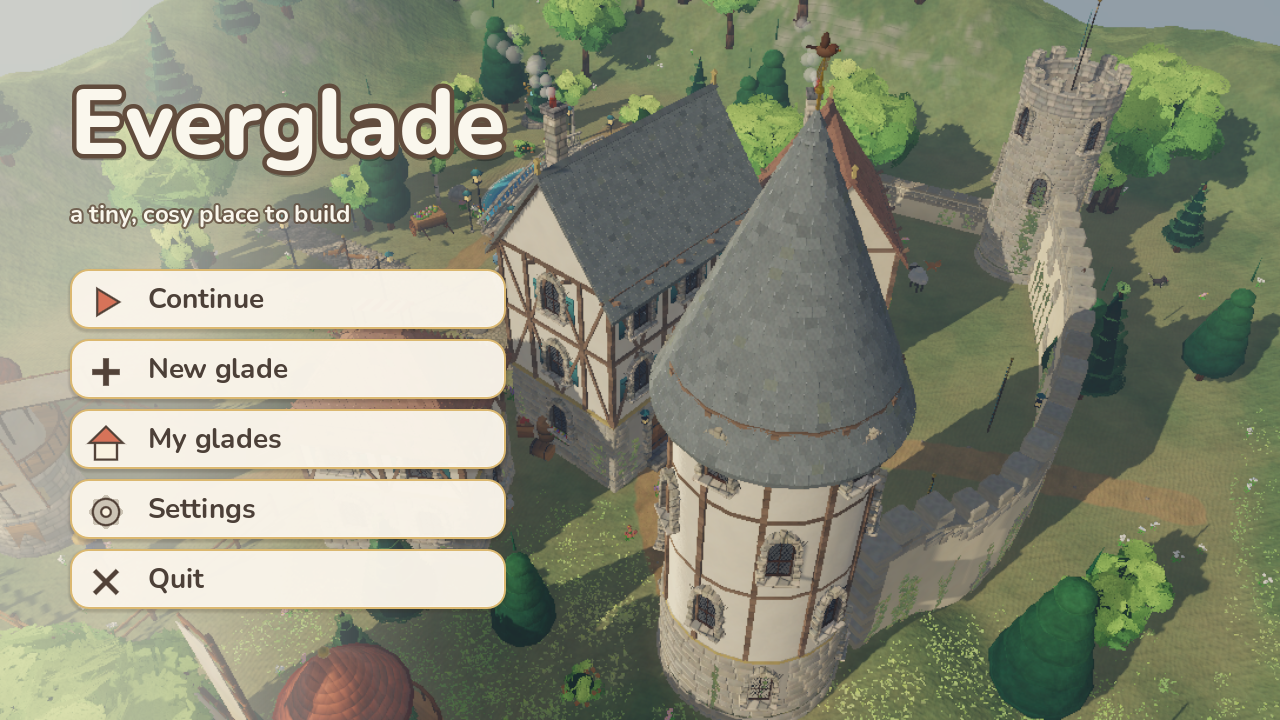
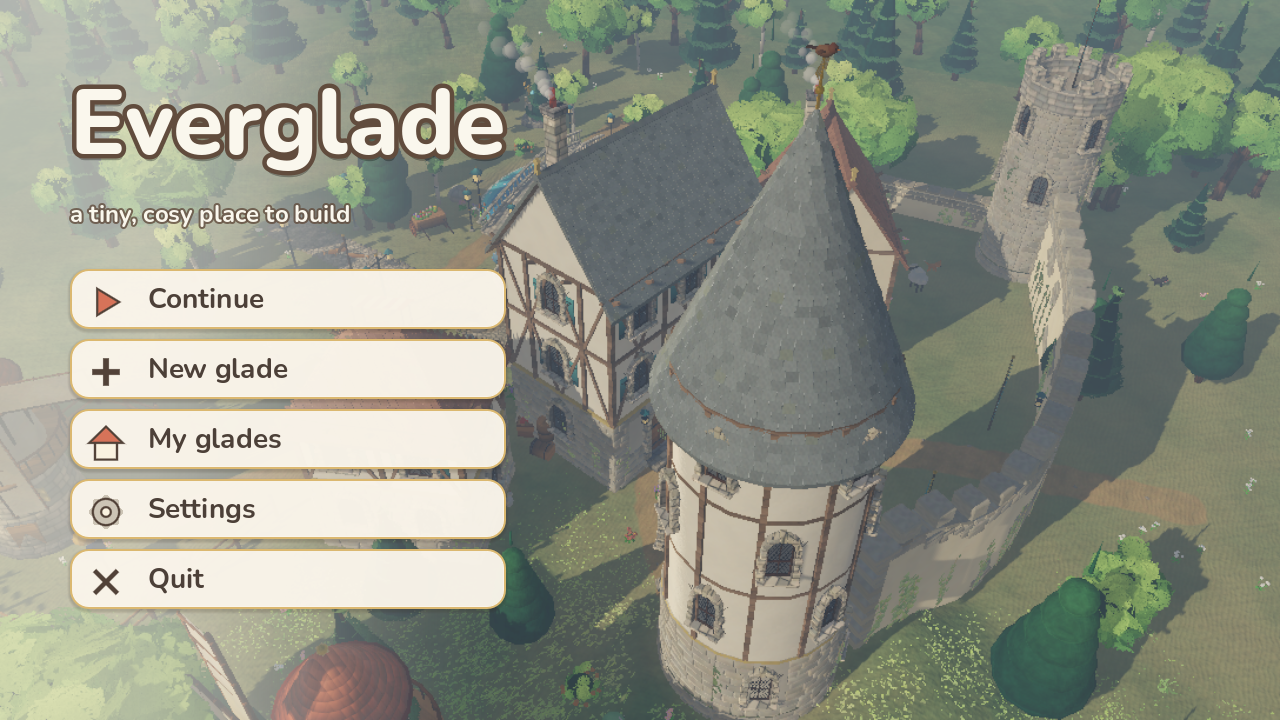
Everglade: the glade is a clearing in an endless countryside, not an island
- Landscape: seamless endless ground ring beyond the terrain (terrain
  settles to the same level at its border) rolling into hazy hills
- Dense forest belt hugging the plot, thinning into copses over far
  meadows (~1000 trees, one MultiMesh per kind)
- Constant aerial haze; template scenery moved out into it
- Plot boundary drawn as a white ground line only while building
- Terrain edge vignette replaced by a woodland floor matching the landscape

Claude-Session: https://claude.ai/code/session_0177cBZ2qdgg7NvJpmVbjzYX

diff --git a/everglade/README.md b/everglade/README.md
@@ -86,6 +86,20 @@ The shader shows layered rock beds (warm and cool strata with ledge shadows) on 
 grassy lip and creeping moss; `Glade._rebuild_scree()` scatters boulders at cliff feet. The heightfield is
 192×192 cells (≈33 cm) for crisp cliffs.
 
+## 1d. The world around the glade
+
+Tiny Glade's buildable area is a fixed square (the developer confirmed the square shown around the glade
+is the whole map); it is drawn as a soft white line while you build, trees grow right up to it, and the
+countryside carries on beyond it into the haze, so it never feels like an island. Everglade matches this:
+
+- `scripts/world/landscape.gd`: an endless ground ring continues the terrain without a seam (the terrain
+  settles to the same level at its border) and swells into rolling hills toward a hazy horizon, with the
+  same painted meadow colours (`shaders/outer_ground.gdshader`) and a darker woodland floor.
+- A dense **forest belt** hugs the plot (the glade is a clearing in the woods) and thins into copses and
+  lone trees over the far meadows: ~1,000 trees in one MultiMesh per kind.
+- A constant soft aerial haze swallows the distance; template scenery (karst peaks, cliffs) stands in it.
+- The **plot boundary** is a white line on the ground, shown only while a build tool is active.
+
 ## 1b. Art direction: a handcrafted miniature
 
 | Element | Implementation |
